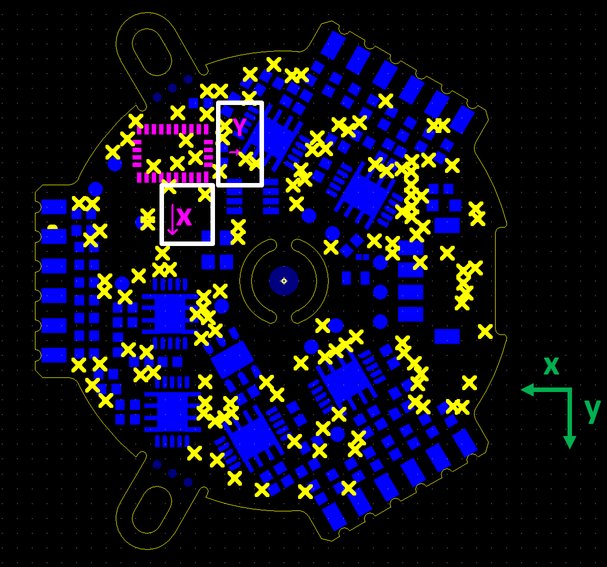
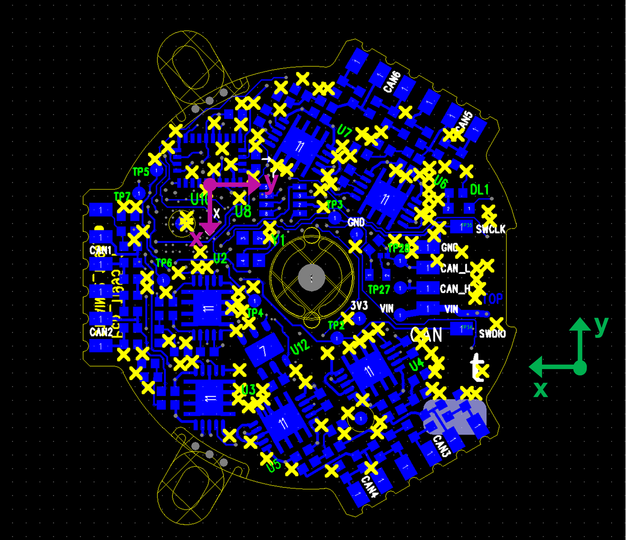
fixed FT IMU frames conversion

diff --git a/docs/ft_sensors/ft_onboard_imu.md b/docs/ft_sensors/ft_onboard_imu.md
@@ -28,11 +28,11 @@ Its orientation can be also defined in terms of the F/T frame:
 
 | IMU | F/T |
 |--|--|
-| $x_{IMU}$ | $y_{FT}$  |
+| $x_{IMU}$ | $-y_{FT}$  |
 | $y_{IMU}$ | $-x_{FT}$ |
-| $z_{IMU}$ | $z_{FT}$  |
+| $z_{IMU}$ | $-z_{FT}$  |
 
-Finally, the IMU origin in the F/T frame coordinates are $\left( 7.5, \; -8.6 \right)$ $\text{mm}$.
+Finally, the IMU origin in the F/T frame coordinates are $\left( 7.5, \; 8.6 \right)$ $\text{mm}$.
 
 <center>
   <figure>
@@ -86,25 +86,7 @@ To further pinpoint our assumption, we have evaluated the gravity vector as stre
 In the firmware, we can either directly remap the axes with a suitable method from the BNO055 library or define a macro to calculate explicitly the transformation. 
 We chose the latter option that does not require initializing the corresponding register. The perk is that we can have full control over the algorithm and insert higher order corrections. 
 
-Therefore, the acceleration remapping is located in the function used to fill in the CAN message ahead of the transmission.
-
-In detail, the snippet below:
-
-```c++
-bool embot::app::application::theIMU::Impl::fill(embot::prot::can::inertial::periodic::Message_DIGITAL_ACCELEROMETER::Info &info)
-{
-    bool ret = true;
-    
-    info.canaddress = embot::app::theCANboardInfo::getInstance().cachedCANaddress();
-    info.x = imuacquisition.data.acc.x;
-    info.y = imuacquisition.data.acc.y;
-    info.z = imuacquisition.data.acc.z;
-         
-    return ret;    
-}
-```
-
-is replaced by:
+Therefore, the acceleration remapping is located in the function of the FW used to fill in the CAN message ahead of the transmission.
 
 ```c++
 bool embot::app::application::theIMU::Impl::fill(embot::prot::can::inertial::periodic::Message_DIGITAL_ACCELEROMETER::Info &info)
@@ -114,8 +96,8 @@ bool embot::app::application::theIMU::Impl::fill(embot::prot::can::inertial::per
     info.canaddress = embot::app::theCANboardInfo::getInstance().cachedCANaddress();
 #if defined(STM32HAL_BOARD_STRAIN2)
     info.x = -imuacquisition.data.acc.y;
-    info.y = imuacquisition.data.acc.x;
-    info.z = imuacquisition.data.acc.z;         
+    info.y = -imuacquisition.data.acc.x;
+    info.z = -imuacquisition.data.acc.z;         
 #else
     info.x = imuacquisition.data.acc.x;
     info.y = imuacquisition.data.acc.y;
